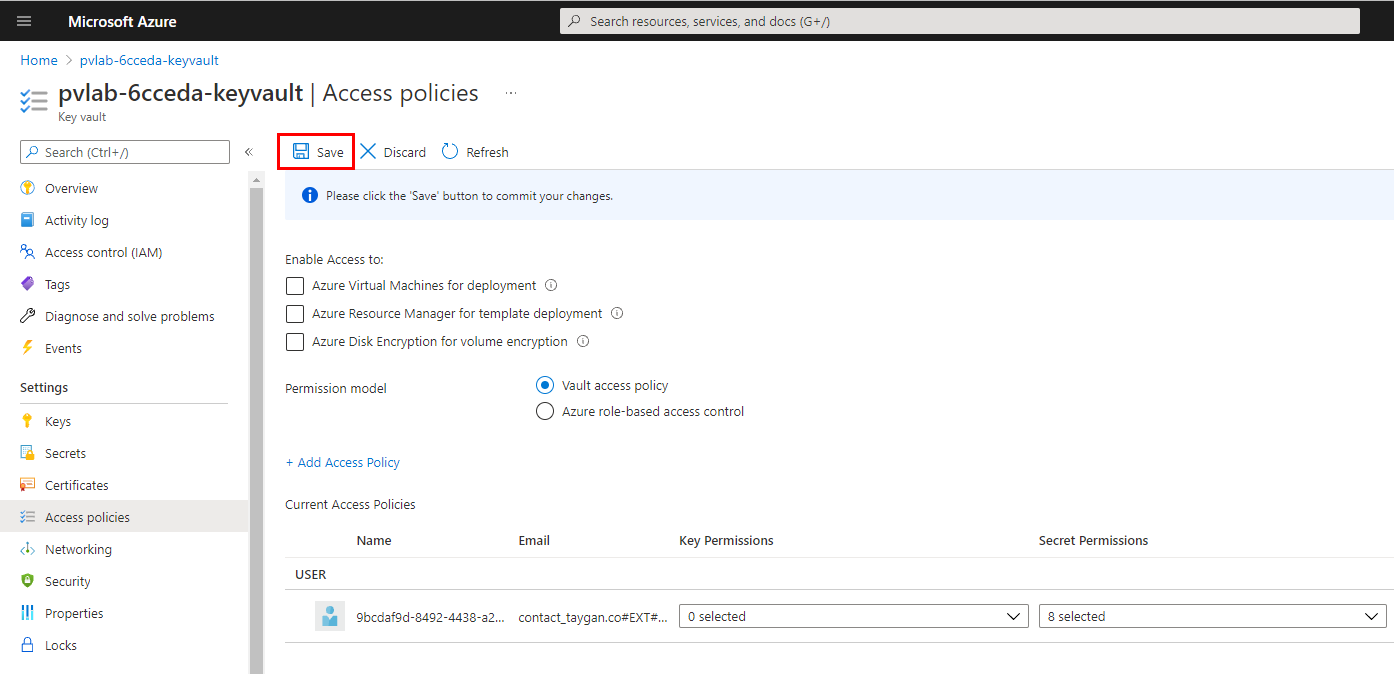
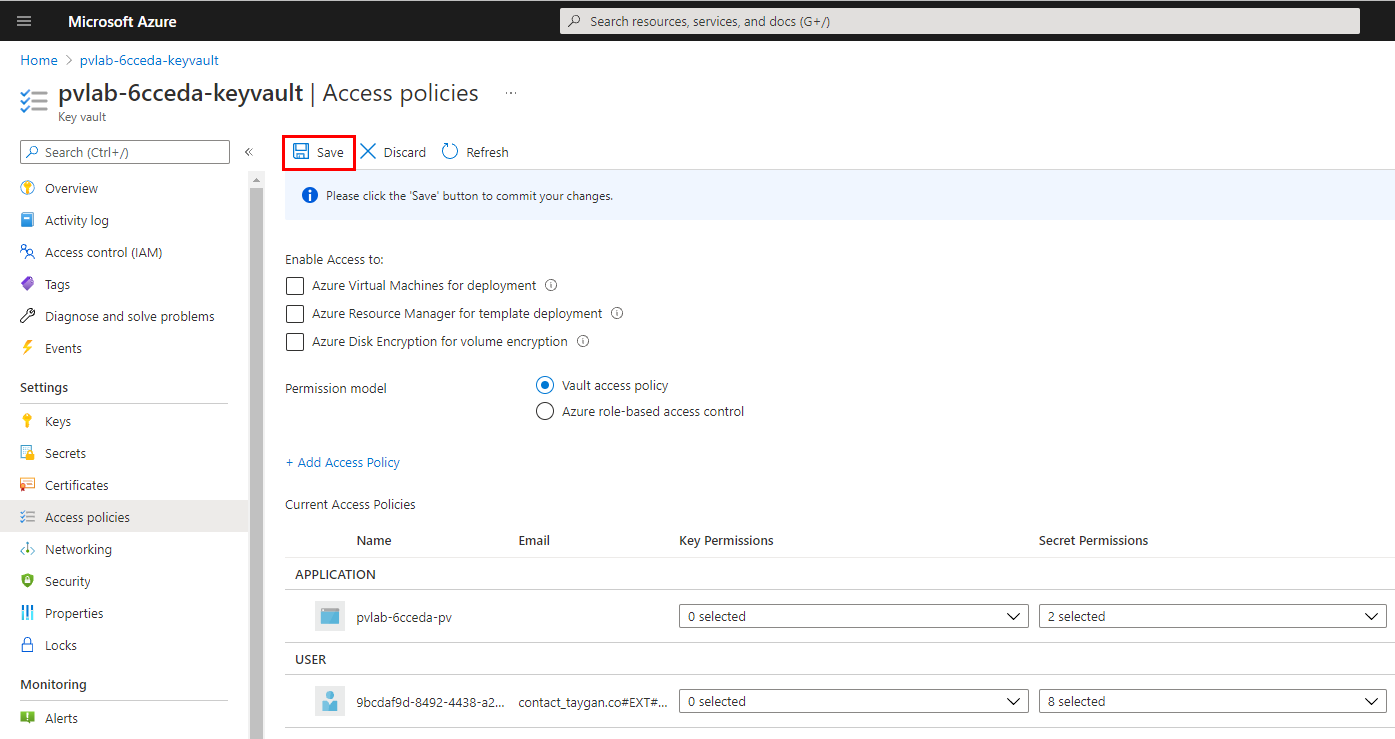
images

diff --git a/modules/module02b.md b/modules/module02b.md
@@ -78,7 +78,7 @@ In this next step, we are creating a second access policy which will provide Azu
 
 2. Click **Add Access Policy**.
 
-    ![Add Access Policy](../images/module02/02.74-keyvault-addpolicy.png)
+    ![Add Access Policy](../images/module02/02.81-keyvault-addpolicy2.png)
 
 3. Under **Select principal**, click **None selected**.
 
